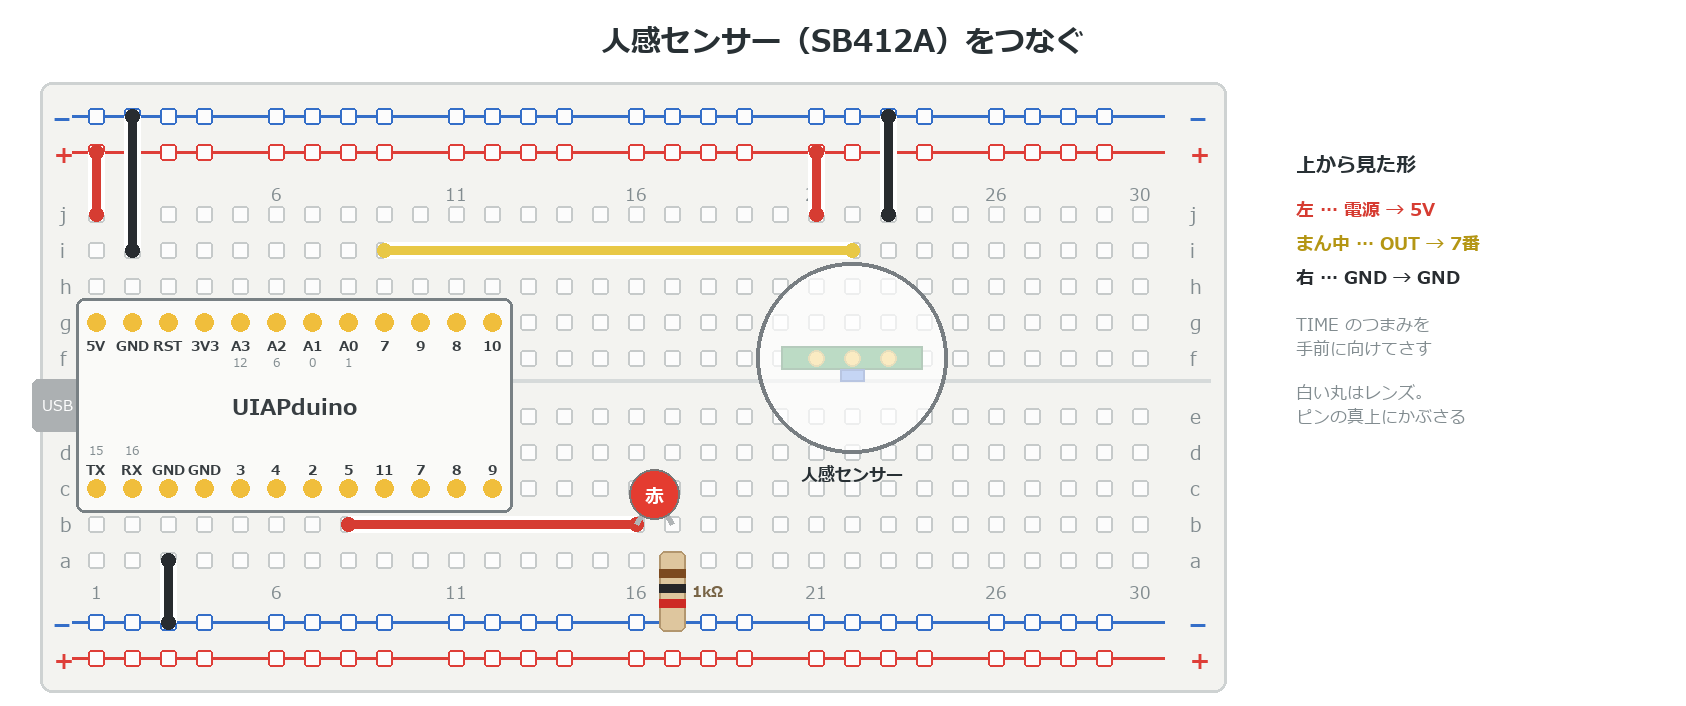
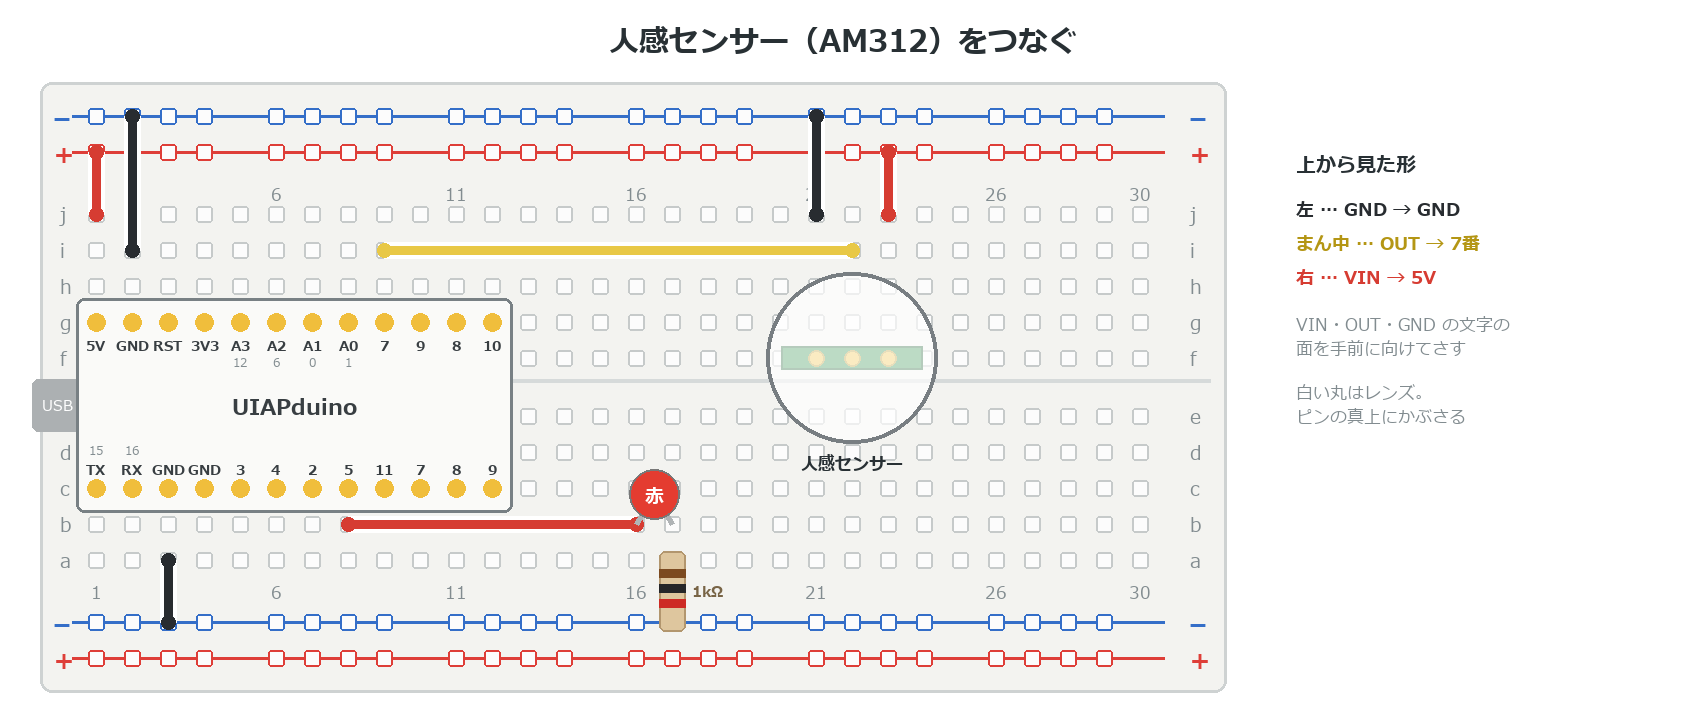
人感センサーを SB412A から AM312（HC-SR312 ミニ PIR）に差しかえた
Youmile の AM312 5個入り（Amazon B084VMYMFZ）に合わせて e4_motion を書きかえた。
商品説明とセンサー IC のデータシート（Senba AM312）で確かめた：
・電源 2.7〜12V（基板のレギュレータで約3V に下げる）、HIGH は約3V。
  VIH 約2.06V をこえるので digitalRead で読める。プルアップしないのは同じ
・保持・ブロックとも約2秒、再トリガー可、3〜5m・100°。TIME のつまみは無い
・ピン名は基板に VIN・OUT・GND と印刷。文字の面を手前に立てると左から GND・OUT・VIN
  （写真から読んだ向き。実物で要確認）
・電源直後はデータシートにならい「1分ほど待つ」と書き、要確認を外した

配線図（GND→−・OUT→7番・VIN→＋）・部品リスト・メンター用の確認項目・
検証スケッチの注記・記録も直した。SB412A の写真は外し、📷 枠にした。

diff --git a/docs/e4_motion/index.html b/docs/e4_motion/index.html
@@ -44,21 +44,21 @@
 - 人を見つけると、合図が**数秒間 HIGH** になる
 - 線は **3本**だけ
 
-> 使うのは **SB412A** という小さなセンサーだよ。
+> 使うのは **AM312** という小さなセンサー。指先くらいの大きさだよ。
 
 :::
 
-![SB412A。右の白いのがレンズ、左の3本がピン。TIME のつまみで HIGH の長さを変えられる](image/index/sb412a.png)
+> 📷 AM312。白いレンズと3本のピン。基板に VIN・OUT・GND と書いてある
 
 ---
 
 # センサーのしくみ
 
 - 合図は **HIGH か LOW** だけ（`digitalRead` で読める）
-- 人が動くと **HIGH**。そのあと **2〜4秒** は HIGH のまま
+- 人が動くと **HIGH**。そのあと **約2秒** は HIGH のまま
 - 動きつづけると、HIGH の時間が**のびる**
-- LOW にもどったあと **2.3秒** は、反応しない
-- 見えるのは **5m くらい先まで、115°** の広さ
+- LOW にもどったあと **約2秒** は、反応しない
+- 見えるのは **3〜5m 先まで、100°** くらいの広さ
 
 > ⚠ 見ているのは**熱の動き**。じっとしている人や、ガラスの向こうの人は見つけられないよ。
 
@@ -66,13 +66,13 @@
 
 # 3V でも HIGH と読める
 
-センサーの HIGH は **3V**。ボードは 5V で動いているけど、だいじょうぶ。
+センサーの HIGH は **約3V**。ボードは 5V で動いているけど、だいじょうぶ。
 
 - このボードは、だいたい **2V より上**を HIGH と読む
-- 3V は、それより十分に高い
+- 3V は、それより高い
 
-> センサーの中には 3V の回路があって、合図はそこから出ている。
-> だから電源を 5V にしても、HIGH は 3V のままなんだ。
+> センサーの基板には、電源を 3V に下げる部品がのっている。
+> だから電源を 5V にしても、HIGH は 3V くらいのままなんだ。
 
 ---
 
@@ -83,15 +83,15 @@
 **USBケーブルを抜いてから**つなごう。
 
 1. ボードの **5V**→＋レール ／ **GND**→−レール
-2. **TIME のつまみを手前**にして、f 行に立ててさす
-3. 左から **電源**→＋ ／ **OUT**→**7番** ／ **GND**→−
+2. **文字の面を手前**にして、f 行に立ててさす
+3. 左から **GND**→− ／ **OUT**→**7番** ／ **VIN**→＋
 4. LED は e3 と同じ（**5番**）
 
-> ⚠ 電源は **5V**。3V3 では足りないよ。（**要確認**：ピンの向き）
+> 基板の **VIN・OUT・GND** の文字を見て、まちがえないようにね。
 
 :::
 
-![TIME のつまみを手前にすると、左から 電源・OUT・GND](image/index/bb_pir.png)
+![文字の面を手前にすると、左から GND・OUT・VIN](image/index/bb_pir.png)
 
 ---
 
@@ -127,12 +127,12 @@ void loop() {
 
 # ⚠ うまく反応しないとき
 
-- **電源を入れた直後**は、しばらく勝手に反応することがある（⚠ **要確認**：何秒か実機で測る）
+- **電源を入れた直後**は、勝手に反応することがある。**1分**ほど待とう
 - **エアコンやヒーターの風**、**日光**が当たる場所は苦手
 - **ゆらす・たたく**と反応してしまう。机に置いて使おう
 - 反応しっぱなし・まったく反応しない → 3本の線と、ピンの向きを確かめる
 
-> センサーの説明書にも、この苦手な場所が書いてあるよ。
+> センサーの説明書も、1分落ち着かせてから性能をはかっているよ。
 
 ---
 

diff --git a/docs/x8_mentor/index.html b/docs/x8_mentor/index.html
@@ -115,7 +115,7 @@
 - **e1** … CdS の振れ幅（しきい値 300 付近でよいか）
 - **b5** … `tone()` と `analogWrite` が同時に使えるか（タイマーを分けた場合）
 - **e2** … 温度センサーを逆にさしたときの挙動（資料に記載がない）
-- **e4** … 人感センサーのピンの向き・電源を入れた直後に落ち着くまでの秒数
+- **e4** … 人感センサー AM312 のピンの向き（文字の面を手前に GND・OUT・VIN）と、`digitalRead` で読めるか
 - **m1** … LCD のアドレス（`0x3F`／`0x27`）を**全台**調べる（`verify/v22_i2cscan`）
 
 > ⚠ ここは**通しで一度ずつ**動かしておくと、当日あわてないよ。

diff --git a/docs/x1_parts/index.html b/docs/x1_parts/index.html
@@ -80,7 +80,7 @@
 - **CdS（光センサー）暗抵抗 1MΩ** … 組にする抵抗は**つまみで代用**
 - **温度センサー MCP9701-E/TO** … ⚠ **9700 とまちがえない**
 - **超音波センサー HC-SR04** … グループで共用してもOK
-- **人感センサー SB412A**（秋月電子 109002）… 電源は **5V**
+- **人感センサー AM312**（HC-SR312 とも。5個入りで売られている）… 電源は **5V**
 
 ---
 

diff --git a/tools/fig_bb_pir.py b/tools/fig_bb_pir.py
@@ -1,17 +1,18 @@
 # -*- coding: utf-8 -*-
-"""e4 人感センサー（SB412A）の配線図（上から見た図）。
+"""e4 人感センサー（AM312 ミニ PIR モジュール）の配線図（上から見た図）。
 
-SB412A は、ピンを下にして**立てて**さす。上から見ると、直径 13.5mm の白い
-レンズ（約5穴ぶん）が、3本のピンの真上にかぶさって見える。
-レンズは半透明にして、下のピンとジャンパーが見えるようにしてある。
+2026-10-11 に SB412A から差しかえた（Youmile の AM312／HC-SR312・5個入り）。
+ピンを下にして**立てて**さす。上から見ると、直径 約12mm の白いレンズ（約5穴ぶん）が
+3本のピンの真上にかぶさって見える。レンズは半透明にして、下のピンが見えるようにしてある。
 
-ピンの並び（データシートの回路図：1＝電源 DC3.5〜12V・2＝VOUT・3＝GND）。
-**TIME のつまみを手前（a行がわ）に向けると、左から 電源・OUT・GND**。
-⚠ 1番ピンの位置は「四角いパッド＝1番」という慣習と基板写真から読んだもの。
-  実物で確かめてから wip を外すこと。
+ピンの名前は基板に **VIN・OUT・GND** と印刷されている（商品写真で確認）。
+**文字の面を手前（a行がわ）に向けて立てると、左から GND・OUT・VIN**。
+（写真：レンズを左・文字を正しく読める向きで、上から VIN・OUT・GND。
+  これを右に 90° 回して立てると、上にあった VIN が右へ行く）
+⚠ 実物で確かめてから wip を外すこと。
 
-電源は 5V（下限 3.5V なので 3V3 では足りない）。出力の HIGH は 3V だが、
-CH32V003 の VIH は 5V 動作で約 2.06V なので digitalRead でそのまま読める。
+電源は 5V（VIN は 2.7〜12V。基板のレギュレータで約3V に下げてセンサー IC に送る）。
+出力の HIGH は約3V。CH32V003 の VIH は 5V 動作で約 2.06V なので digitalRead で読める。
 """
 import sys
 sys.path.insert(0, "tools")
@@ -20,9 +21,9 @@ from bb import *
 from PIL import Image, ImageDraw
 
 RED, YELLOW, BLACK = (214, 60, 50), (232, 200, 70), (40, 44, 48)
-PC = 21                                        # 電源の列（OUT＝22・GND＝23）
+PC = 21                                        # GND の列（OUT＝22・VIN＝23）
 
-im, d = new("人感センサー（SB412A）をつなぐ", extra_w=420)
+im, d = new("人感センサー（AM312）をつなぐ", extra_w=420)
 board(d)
 mcu(d)
 
@@ -31,9 +32,9 @@ wire(d, (1, "j"), (1, "+t"), RED)
 wire(d, (2, "i"), (2, "-t"), BLACK)
 
 # センサーの3本（f行にさす）
-wire(d, (PC, "j"), (PC, "+t"), RED)            # 電源 → ＋レール（5V）
+wire(d, (PC, "j"), (PC, "-t"), BLACK)          # GND  → −レール
 wire(d, (9, "i"), (PC + 1, "i"), YELLOW)       # OUT  → 7番
-wire(d, (PC + 2, "j"), (PC + 2, "-t"), BLACK)  # GND  → −レール
+wire(d, (PC + 2, "j"), (PC + 2, "+t"), RED)    # VIN  → ＋レール（5V）
 
 # LED（e3 と同じ 16・17列）：5番 → LED → 1kΩ → 下の −レール
 wire(d, (8, "b"), (16, "b"), RED)
@@ -46,14 +47,12 @@ mx, my = cx(PC + 1), cy("f")
 bw, bt = 10.0 / 2.54 * PITCH, 1.6 / 2.54 * PITCH    # 基板 10mm × 厚み 1.6mm
 d.rectangle([mx - bw / 2, my - bt / 2, mx + bw / 2, my + bt / 2],
             fill=(40, 140, 70), outline=(20, 90, 40), width=2)
-d.rectangle([mx - 12, my + bt / 2, mx + 12, my + bt / 2 + 12],
-            fill=(70, 120, 220), outline=(30, 70, 160), width=2)  # TIME のつまみ（手前がわ）
 for i in range(3):
     x = cx(PC + i)
     d.ellipse([x - 8, my - 8, x + 8, my + 8], fill=GOLD, outline=(180, 150, 40), width=2)
 
 # レンズ（半透明）
-r = 13.5 / 2.54 / 2 * PITCH
+r = 12.0 / 2.54 / 2 * PITCH                   # レンズ 直径 約12mm
 ov = Image.new("RGBA", im.size, (0, 0, 0, 0))
 od = ImageDraw.Draw(ov)
 od.ellipse([mx - r, my - r, mx + r, my + r], fill=(255, 255, 255, 175),
@@ -65,11 +64,11 @@ center(d, mx, my + r + 8, "人感センサー", bold(17), INK)
 # 説明（右の余白）
 x0 = W + 30
 d.text((x0, 150), "上から見た形", font=bold(20), fill=INK)
-for k, (t, c) in enumerate((("左 … 電源 → 5V", RED), ("まん中 … OUT → 7番", (180, 150, 20)),
-                            ("右 … GND → GND", BLACK))):
+for k, (t, c) in enumerate((("左 … GND → GND", BLACK), ("まん中 … OUT → 7番", (180, 150, 20)),
+                            ("右 … VIN → 5V", RED))):
     d.text((x0, 196 + k * 34), t, font=bold(18), fill=c)
-d.text((x0, 312), "TIME のつまみを", font=reg(17), fill=GRAY)
-d.text((x0, 336), "手前に向けてさす", font=reg(17), fill=GRAY)
+d.text((x0, 312), "VIN・OUT・GND の文字の", font=reg(17), fill=GRAY)
+d.text((x0, 336), "面を手前に向けてさす", font=reg(17), fill=GRAY)
 d.text((x0, 380), "白い丸はレンズ。", font=reg(17), fill=GRAY)
 d.text((x0, 404), "ピンの真上にかぶさる", font=reg(17), fill=GRAY)
 save(im, "e4_motion", "bb_pir.png")

diff --git a/content/e4_motion/index.md b/content/e4_motion/index.md
@@ -30,21 +30,21 @@ wip: 実機確認まち
 - 人を見つけると、合図が**数秒間 HIGH** になる
 - 線は **3本**だけ
 
-> 使うのは **SB412A** という小さなセンサーだよ。
+> 使うのは **AM312** という小さなセンサー。指先くらいの大きさだよ。
 
 :::
 
-![SB412A。右の白いのがレンズ、左の3本がピン。TIME のつまみで HIGH の長さを変えられる](image/index/sb412a.png)
+> 📷 AM312。白いレンズと3本のピン。基板に VIN・OUT・GND と書いてある
 
 ---
 
 # センサーのしくみ
 
 - 合図は **HIGH か LOW** だけ（`digitalRead` で読める）
-- 人が動くと **HIGH**。そのあと **2〜4秒** は HIGH のまま
+- 人が動くと **HIGH**。そのあと **約2秒** は HIGH のまま
 - 動きつづけると、HIGH の時間が**のびる**
-- LOW にもどったあと **2.3秒** は、反応しない
-- 見えるのは **5m くらい先まで、115°** の広さ
+- LOW にもどったあと **約2秒** は、反応しない
+- 見えるのは **3〜5m 先まで、100°** くらいの広さ
 
 > ⚠ 見ているのは**熱の動き**。じっとしている人や、ガラスの向こうの人は見つけられないよ。
 
@@ -52,13 +52,13 @@ wip: 実機確認まち
 
 # 3V でも HIGH と読める
 
-センサーの HIGH は **3V**。ボードは 5V で動いているけど、だいじょうぶ。
+センサーの HIGH は **約3V**。ボードは 5V で動いているけど、だいじょうぶ。
 
 - このボードは、だいたい **2V より上**を HIGH と読む
-- 3V は、それより十分に高い
+- 3V は、それより高い
 
-> センサーの中には 3V の回路があって、合図はそこから出ている。
-> だから電源を 5V にしても、HIGH は 3V のままなんだ。
+> センサーの基板には、電源を 3V に下げる部品がのっている。
+> だから電源を 5V にしても、HIGH は 3V くらいのままなんだ。
 
 ---
 
@@ -69,15 +69,15 @@ wip: 実機確認まち
 **USBケーブルを抜いてから**つなごう。
 
 1. ボードの **5V**→＋レール ／ **GND**→−レール
-2. **TIME のつまみを手前**にして、f 行に立ててさす
-3. 左から **電源**→＋ ／ **OUT**→**7番** ／ **GND**→−
+2. **文字の面を手前**にして、f 行に立ててさす
+3. 左から **GND**→− ／ **OUT**→**7番** ／ **VIN**→＋
 4. LED は e3 と同じ（**5番**）
 
-> ⚠ 電源は **5V**。3V3 では足りないよ。（**要確認**：ピンの向き）
+> 基板の **VIN・OUT・GND** の文字を見て、まちがえないようにね。
 
 :::
 
-![TIME のつまみを手前にすると、左から 電源・OUT・GND](image/index/bb_pir.png)
+![文字の面を手前にすると、左から GND・OUT・VIN](image/index/bb_pir.png)
 
 ---
 
@@ -113,12 +113,12 @@ void loop() {
 
 # ⚠ うまく反応しないとき
 
-- **電源を入れた直後**は、しばらく勝手に反応することがある（⚠ **要確認**：何秒か実機で測る）
+- **電源を入れた直後**は、勝手に反応することがある。**1分**ほど待とう
 - **エアコンやヒーターの風**、**日光**が当たる場所は苦手
 - **ゆらす・たたく**と反応してしまう。机に置いて使おう
 - 反応しっぱなし・まったく反応しない → 3本の線と、ピンの向きを確かめる
 
-> センサーの説明書にも、この苦手な場所が書いてあるよ。
+> センサーの説明書も、1分落ち着かせてから性能をはかっているよ。
 
 ---
 

diff --git a/CURRICULUM.md b/CURRICULUM.md
@@ -82,6 +82,19 @@
 
 ### 🚶 人感センサー（`e4_motion`）— 骨格まで（2026-09-25）・実機確認まち
 
+> **⚠ 2026-10-11：センサーを AM312 に差しかえた**（オーナー判断）。以下の SB412A の記録は経緯として残す。
+> - 製品：Youmile「AM312 ミニ検出器モジュール HC-SR312」5個入り（Amazon B084VMYMFZ）。ジャンパーワイヤー15本つき
+> - 商品説明：DC **2.7〜12V**・待機 0.1mA 未満・保持 2秒・ブロック 2秒・**再トリガー可**・**100° 以内・3〜5m**・
+>   −20〜60℃・基板 10×8mm・全体 約12×25mm
+> - センサー IC のデータシート（Nanyang Senba「AM312」）：**VDD 2.7〜3.3V**（最大 3.6V）・
+>   **VOH ＞ VDD−1V**（−10mA 時）・保持／ブロック **2.3秒**・特性は「**1分間落ち着かせて**」測定。
+>   → 基板の入力 2.7〜12V は**レギュレータ**で約3V に下げている（商品写真に U1 あり）。HIGH は約3V で、
+>   VIH 約2.06V（5V 動作）をこえるので `digitalRead` で読める。SB412A と同じく**プルアップしない**。
+> - **ピンは基板に VIN・OUT・GND と印刷**（商品写真）。OUT がまん中。**文字の面を手前に立てると左から GND・OUT・VIN**
+>   （写真の向きから回して読んだ。実物で要確認）。配線図は GND→上の−・OUT→7番・VIN→上の＋。
+> - 電源直後の待ち時間は、データシートの「1分」を目安として章に書いた（要確認を外した）。
+> - TIME のつまみは無い（保持時間は固定）。写真は商品画像を使わず 📷 枠にした。
+
 **超音波センサーとサーボのあいだ**に入れた（オーナー判断 2026-09-25。以前は e1 と e2 のあいだの予定だった）。
 これにともない **`e4_servo`→`e5_servo`／`e5_motor`→`e6_motor`** に繰り下げた
 （フォルダ・id・num・表紙・サンプル名 `e5_servo`・`e6_motor`・`e6_car`・作図の保存先・章をまたぐ参照）。

diff --git a/content/x1_parts/index.md b/content/x1_parts/index.md
@@ -66,7 +66,7 @@ wip: 写真まち
 - **CdS（光センサー）暗抵抗 1MΩ** … 組にする抵抗は**つまみで代用**
 - **温度センサー MCP9701-E/TO** … ⚠ **9700 とまちがえない**
 - **超音波センサー HC-SR04** … グループで共用してもOK
-- **人感センサー SB412A**（秋月電子 109002）… 電源は **5V**
+- **人感センサー AM312**（HC-SR312 とも。5個入りで売られている）… 電源は **5V**
 
 ---
 
